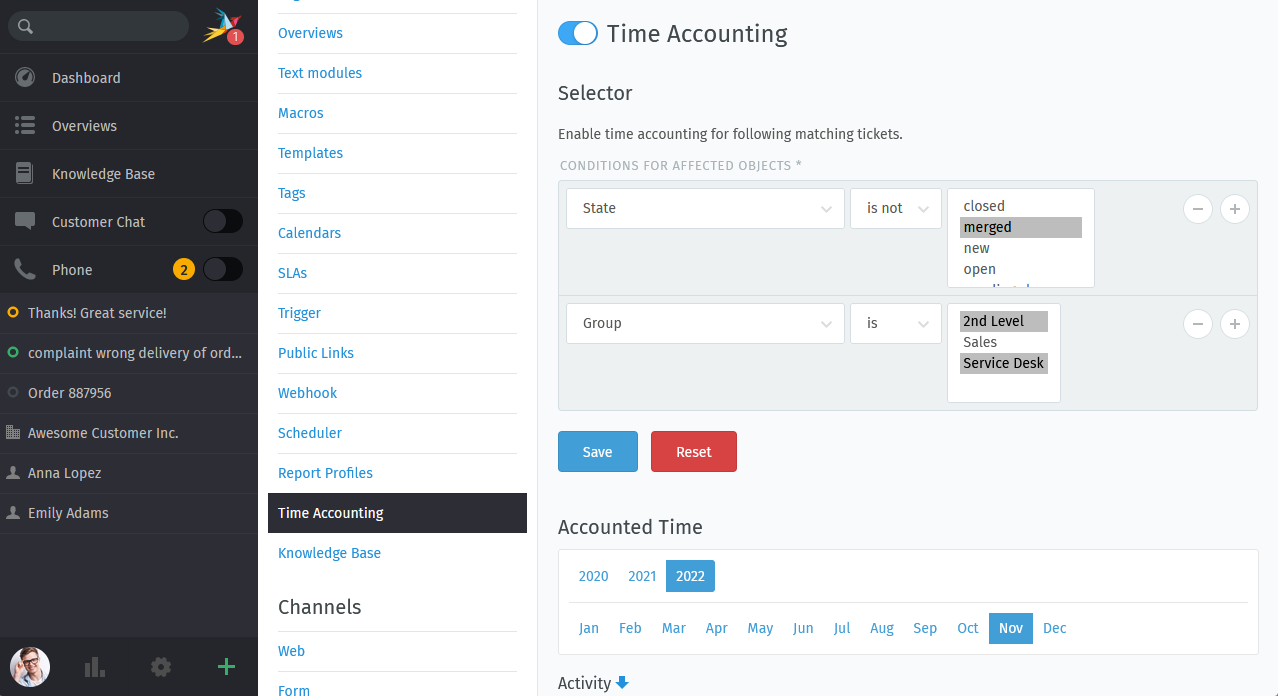
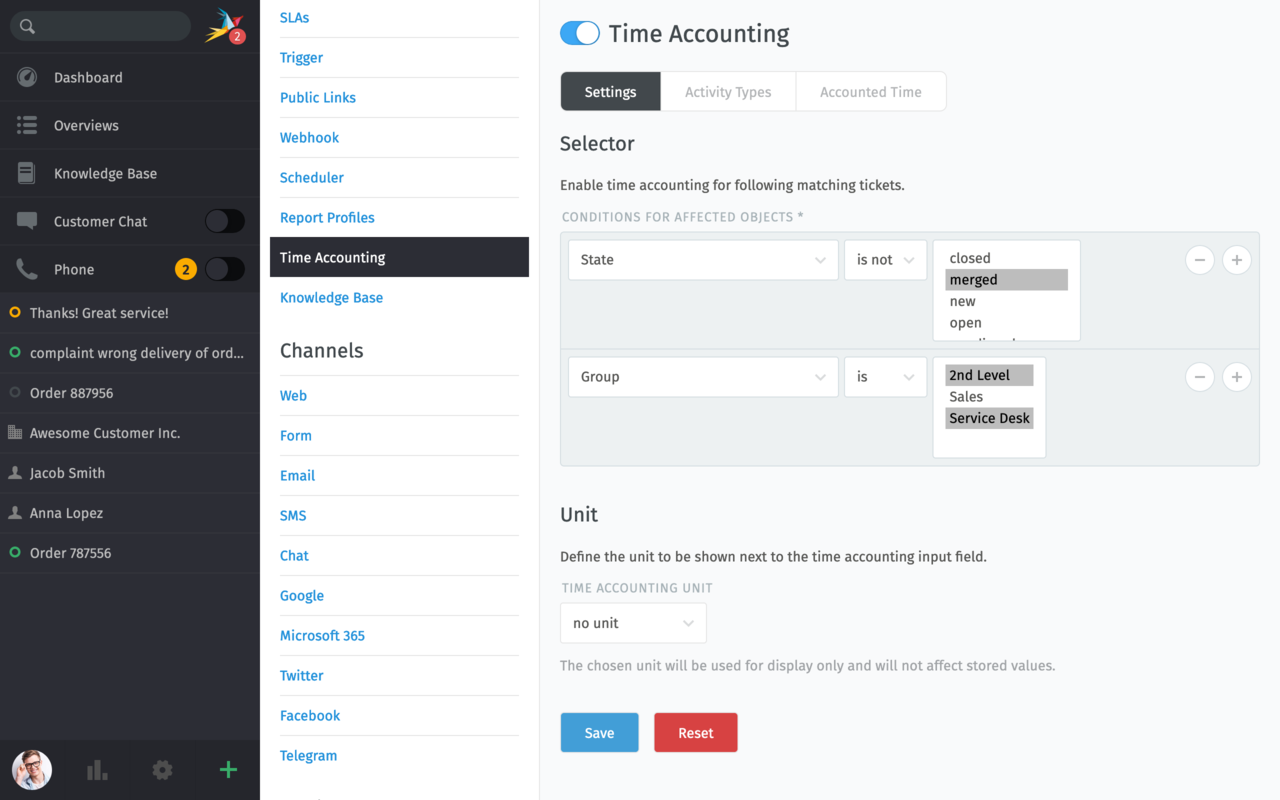
Fixes #249 - Time accounting enhancements - admin documentation.

diff --git a/manage/time-accounting.rst b/manage/time-accounting.rst
@@ -2,30 +2,34 @@ Time Accounting
 ***************
 
 If you want to know how much time you need for your each project or ticket,
-enable time accounting (turn on the switch on the top left side of the page).
+enable the time accounting (turn on the switch on the top left side of the
+page).
 
 .. figure:: /images/manage/time-accounting/time-accounting-management.png
-   :alt: Time accounting management page in Zammad
+   :alt: Time Accounting Management Screen in Zammad
 
 How it works
 ------------
 
-Zammad's time accounting uses ticket selectors (filters) to check if a ticket
-is applicable for time accounting or not. If a ticket applies for accounting,
-Zammad will request the agent to provide how much time was needed to process
-the current ticket step.
+Settings
+~~~~~~~~
+
+Zammad's time accounting uses ticket **Selector** (filter) to check if a ticket
+is considered for the time accounting or not. If a ticket is applicable, Zammad
+will request the agent to provide how much time was needed to process the
+current ticket step.
 
    .. note::
 
-      In order for Zammad to bring up the time accounting dialogue to an agent,
-      the agent has to update the ticket together with any article type.
+      In order for Zammad to bring up the time accounting dialog to an agent,
+      the agent has to update the ticket together with an article of any type.
       The article part is mandatory.
 
-      However, the time accounting dialogue is not mandatory and can be
-      cancelled by your agents if needed. You cannot enforce time accounting.
+      However, the time accounting dialog is not mandatory and can be canceled
+      by your agents if needed. You cannot enforce time accounting.
 
-      If a ticket no longer applies for time accounting, the already accounted
-      time is not lost.
+      If a ticket is no longer considered for the time accounting, the already
+      accounted time will be.
 
    .. tip::
 
@@ -38,45 +42,113 @@ the current ticket step.
 
 .. figure:: /images/manage/time-accounting/time-accounting-selector.png
    :align: center
-   :alt: Time accounting ticket selectors
+   :alt: Time Accounting Ticket Selector
 
-Reviewing accounted time
-------------------------
+By default, agents account time as a unitless numerical input. However, it is
+possible to show a specific unit by configuring **Unit** setting, which provides
+several options:
 
-Below the selector configuration, Zammad provides an accounted time section
-which will contain all accounted times for your tickets.
-Accounted times are displayed per years and months.
+   no unit
+      Default behavior, no unit is shown next to the time value.
+   hour(s)
+      Shows ``hour(s)`` as the unit next to the time value.
+   quarter-hour(s)
+      Shows ``quarter-hour(s)`` as the unit next to the time value.
+   minute(s)
+      Shows ``minute(s)`` as the unit next to the time value.
+   custom unit
+      Shows a custom unit that can be specified as free input.
 
-   .. hint::
+.. figure:: /images/manage/time-accounting/time-accounting-unit.png
+   :align: center
+   :alt: Time Accounting Unit
 
-      | Having tickets that are overlapping several months?
-      | No problem! Zammad provides *time units* and *time units total* to allow
-        partial billing.
+.. warning::
+   The configurable time accounting unit is used only for display!
+
+   No numerical transformation will be applied to the values, the unit is merely
+   used to indicate to the agents in which units their time is accounted. The
+   original time values will be preserved.
+
+   .. figure:: /images/manage/time-accounting/time-accounting-unit-recording.png
+      :align: center
+      :alt: Time Accounting Unit when Recording
+
+Activity Types
+~~~~~~~~~~~~~~
+
+**Activity Types** can be used to group the different ticket time accounting
+entries together. For example, entries that are relevant to a "Billing" type.
+
+.. figure:: /images/manage/time-accounting/time-accounting-types.png
+   :align: center
+   :alt: Time Accounting Activity Types
+
+When you enable the recording of the **Activity Type**, the agents will be able
+to select a type from this list.
+
+.. figure:: /images/manage/time-accounting/time-accounting-select-activity-type.png
+   :align: center
+   :alt: Time Accounting Activity Type Selection for Agents
+
+Additionally, a column with an associated activity type will be rendered for an
+entry in the **Activity** table under the **Accounted Time** tab.
+
+You can manage available activity types in this screen like any other Zammad
+object. Only active types will be available for the selection when recording new
+times.
+
+.. figure:: /images/manage/time-accounting/time-accounting-new-type.png
+   :align: center
+   :alt: New Time Accounting Activity Type Dialog
+
+.. hint::
+   | Activity types can be set as default, and in that case they will be
+   | pre-selected for the agents when they are asked to account their time.
+   | It is also possible to unset default activity type, in which case no type
+   | will be pre-selected and the agents can make their choice.
+
+Accounted Time
+~~~~~~~~~~~~~~
+
+Under the **Accounted Time** tab, Zammad provides a section for reviewing all
+accounted times for your tickets. Accounted times are displayed per years and
+months.
+
+.. hint::
+
+   | Having tickets that are overlapping several months?
+   | No problem! Zammad provides *time units* and *time units total* to allow
+     partial billing.
 
 Select the right month
    Usually you want to bill accounted time of other months than the current one.
    Just select the relevant year and month to receive the accounted times and
-   ticket information
+   ticket information.
 
    .. figure:: /images/manage/time-accounting/time-accounting-month-selection.png
       :alt: Screenshot showing a selection for year and month on time accounting
 
 Tickets and their accounted time
    Zammad allows you to receive the accounted information just like you need
-   them. For this you currently have four options to view and also download
+   them. For this you currently have four options to review and also download
    the relevant data as CSV.
 
-   To download the CSV data, use the arrow down ⇩ right next to each heading
+   To download the CSV data, use the download button right next to each heading
    (e.g. "Ticket").
 
    .. hint::
 
       🤓 Of course you can also automate this with API calls.
 
+   .. hint::
+      Only the first 20 entries are shown for each table. To see all of them,
+      simply download the records in CSV.
+
    Activity
       This filter works similar to the ticket filter, with one exception:
       You'll find each *individual* time accounting step of your agents.
-      This is what you'd also see in the tickets history before Zammad 5.2.
+      This is what you'd also see in the ticket's history before Zammad 5.2.
 
       In this list you'll see the following ticket information:
 
@@ -85,12 +157,13 @@ Tickets and their accounted time
          * Customer
          * Organization of customer (if applicable)
          * Agent that accounted the time
-         * Time units accounted in the current month
+         * Time units accounted in the current activity
+         * Activity type (if enabled)
          * Created at
 
    Ticket
       This filter contains all relevant tickets from the selected month.
-      
+
       In this list you'll see the following ticket information:
 
          * Number
@@ -124,13 +197,13 @@ Tickets and their accounted time
 
       .. note::
 
-         You can also see entries for customers that are part of an primary
-         organization. Users without organization can be found in the Customer
-         filter.
+         You can also see entries for customers that are part of a primary
+         organization. Users without am organization can be found in the
+         Customer filter.
 
-   .. figure:: /images/manage/time-accounting/download-accounted-times-as-csv.png
+   .. figure:: /images/manage/time-accounting/time-accounting-download-accounted-times-as-csv.png
       :align: center
       :alt: Time accounting view with time accounted filters
 
       Each heading allows you to download the CSV versions of the provided
-      view via the downwards arrow.
+      view via the download button next to it.
